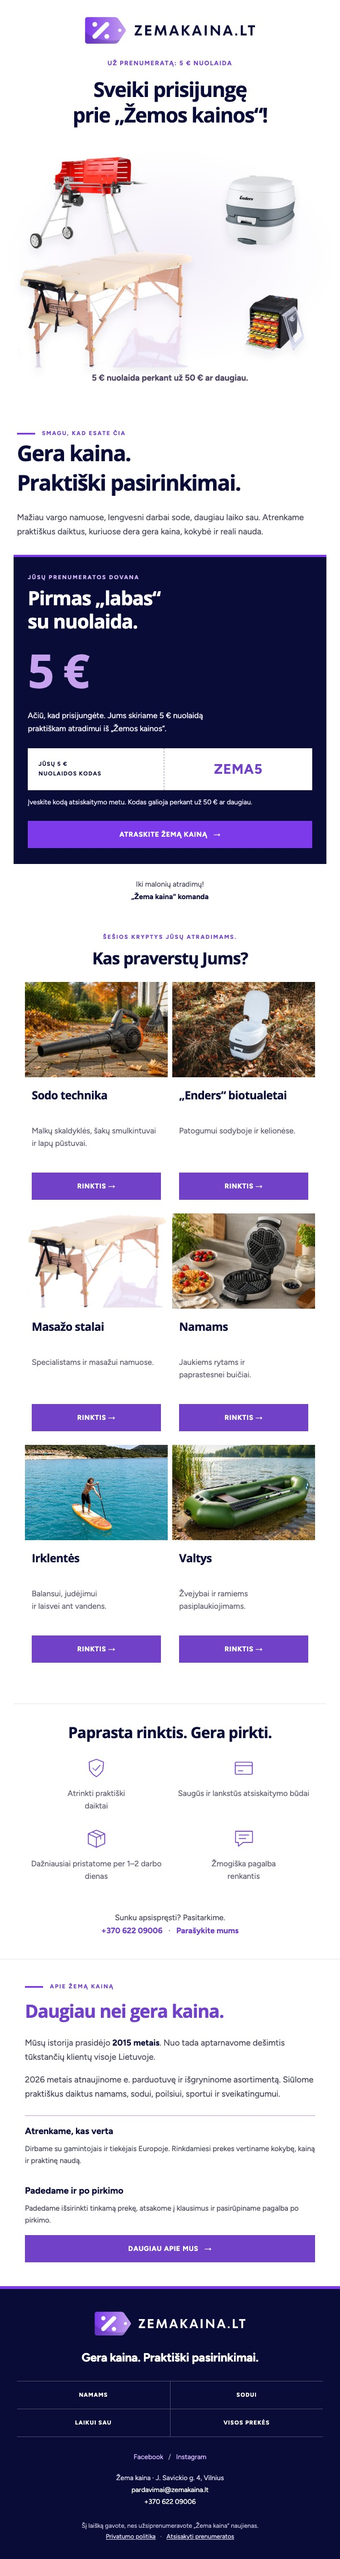
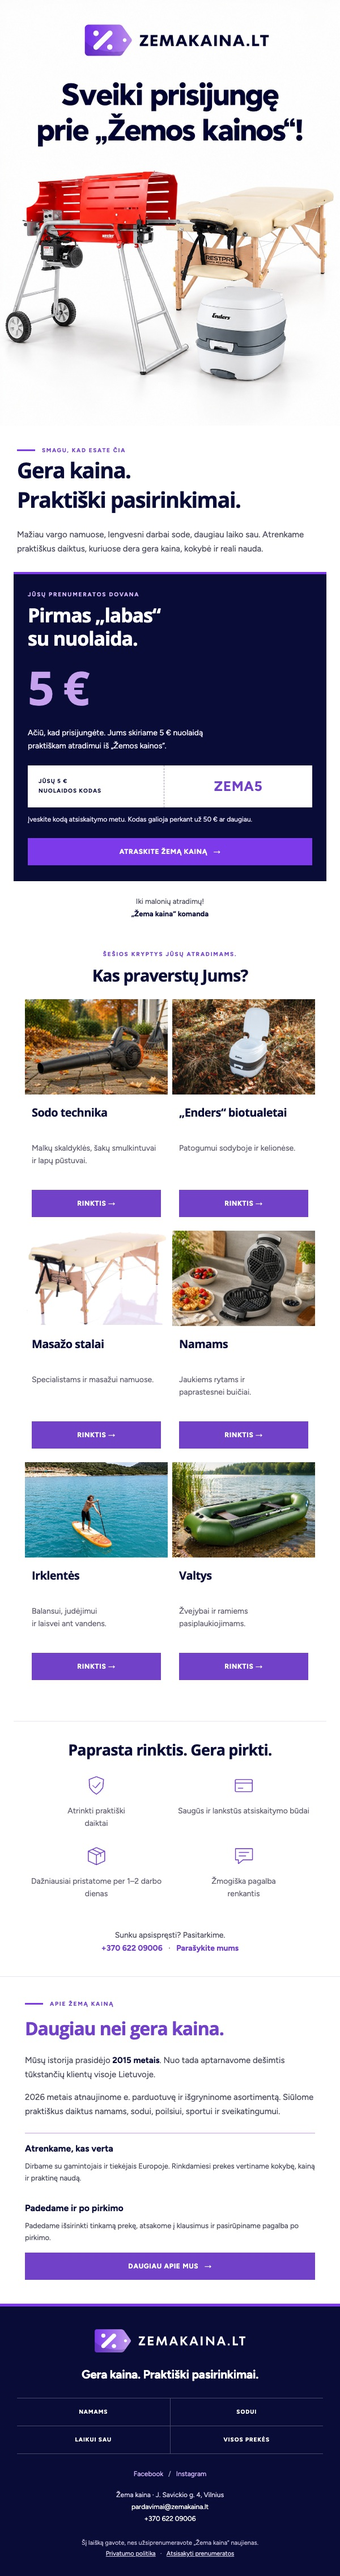
Use approved Welcome 1 hero composition

diff --git a/welcome-01.html b/welcome-01.html
@@ -25,7 +25,7 @@ body{margin:0!important;padding:0!important;width:100%!important;-webkit-text-si
 <div style="display:none;font-size:1px;line-height:1px;max-height:0;max-width:0;opacity:0;overflow:hidden;mso-hide:all;color:#efedf3;">Ačiū, kad prisijungėte. Jūsų prenumeratos dovana ir praktiški atradimai namams, sodui bei laikui sau.   </div>
 <table border="0" cellpadding="0" cellspacing="0" role="presentation" style="width:100%;background:#efedf3;border-collapse:collapse;border-spacing:0;" width="100%"><tr><td align="center" class="outer" style="padding:0 0 30px;">
 <table border="0" cellpadding="0" cellspacing="0" class="email" role="presentation" style="width:100%;max-width:600px;background:#ffffff;table-layout:fixed;border-collapse:collapse;border-spacing:0;" width="100%">
-<tr><td style="padding:0"><a href="https://zemakaina.lt/collections/all"><img alt="Sveiki prisijungę prie Žemos kainos. Sodo technika, Enders, masažo stalai ir namų prekės." src="https://raw.githubusercontent.com/elaiskai/zema-kaina/main/hero-welcome-01-authentic-v4.jpg" style="display:block;width:100%;height:auto;max-width:100%;" width="600"/></a></td></tr>
+<tr><td style="padding:0"><a href="https://zemakaina.lt/collections/all"><img alt="Sveiki prisijungę prie Žemos kainos. Sodo technika, Enders biotualetai ir masažo stalai." src="https://raw.githubusercontent.com/elaiskai/zema-kaina/main/hero-welcome-01-composition-v5.jpg" style="display:block;width:100%;height:auto;max-width:100%;" width="600"/></a></td></tr>
 <tr><td class="intro" style="padding:43px 44px 30px;">
 <table border="0" cellpadding="0" cellspacing="0" role="presentation" style="border-collapse:collapse;border-spacing:0;"><tr><td style="width:32px;padding:0;" width="32"><table border="0" cellpadding="0" cellspacing="0" role="presentation" style="border-collapse:collapse;border-spacing:0;" width="32"><tr><td bgcolor="#7c3aea" height="3" style="height:3px;background:#7c3aea;font-size:0;line-height:0;padding:0;"> </td></tr></table></td><td style="padding-left:12px;font-size:10px;line-height:16px;letter-spacing:1.7px;font-weight:700;color:#7142c8;">SMAGU, KAD ESATE ČIA</td></tr></table>
 <h2 class="intro-title" style="margin:0 0 24px;font-family:'Open Sans',Arial,Helvetica,sans-serif;font-size:38px;line-height:52px;letter-spacing:-1.5px;font-weight:700;color:#090c37;">Gera kaina.<br/>Praktiški pasirinkimai.</h2>

diff --git a/welcome-01-local.html b/welcome-01-local.html
@@ -25,7 +25,7 @@ body{margin:0!important;padding:0!important;width:100%!important;-webkit-text-si
 <div style="display:none;font-size:1px;line-height:1px;max-height:0;max-width:0;opacity:0;overflow:hidden;mso-hide:all;color:#efedf3;">Ačiū, kad prisijungėte. Jūsų prenumeratos dovana ir praktiški atradimai namams, sodui bei laikui sau.   </div>
 <table border="0" cellpadding="0" cellspacing="0" role="presentation" style="width:100%;background:#efedf3;border-collapse:collapse;border-spacing:0;" width="100%"><tr><td align="center" class="outer" style="padding:0 0 30px;">
 <table border="0" cellpadding="0" cellspacing="0" class="email" role="presentation" style="width:100%;max-width:600px;background:#ffffff;table-layout:fixed;border-collapse:collapse;border-spacing:0;" width="100%">
-<tr><td style="padding:0"><a href="https://zemakaina.lt/collections/all"><img alt="Sveiki prisijungę prie Žemos kainos. Sodo technika, Enders, masažo stalai ir namų prekės." src="hero-welcome-01-authentic-v4.jpg" style="display:block;width:100%;height:auto;max-width:100%;" width="600"/></a></td></tr>
+<tr><td style="padding:0"><a href="https://zemakaina.lt/collections/all"><img alt="Sveiki prisijungę prie Žemos kainos. Sodo technika, Enders biotualetai ir masažo stalai." src="hero-welcome-01-composition-v5.jpg" style="display:block;width:100%;height:auto;max-width:100%;" width="600"/></a></td></tr>
 <tr><td class="intro" style="padding:43px 44px 30px;">
 <table border="0" cellpadding="0" cellspacing="0" role="presentation" style="border-collapse:collapse;border-spacing:0;"><tr><td style="width:32px;padding:0;" width="32"><table border="0" cellpadding="0" cellspacing="0" role="presentation" style="border-collapse:collapse;border-spacing:0;" width="32"><tr><td bgcolor="#7c3aea" height="3" style="height:3px;background:#7c3aea;font-size:0;line-height:0;padding:0;"> </td></tr></table></td><td style="padding-left:12px;font-size:10px;line-height:16px;letter-spacing:1.7px;font-weight:700;color:#7142c8;">SMAGU, KAD ESATE ČIA</td></tr></table>
 <h2 class="intro-title" style="margin:0 0 24px;font-family:'Open Sans',Arial,Helvetica,sans-serif;font-size:38px;line-height:52px;letter-spacing:-1.5px;font-weight:700;color:#090c37;">Gera kaina.<br/>Praktiški pasirinkimai.</h2>
